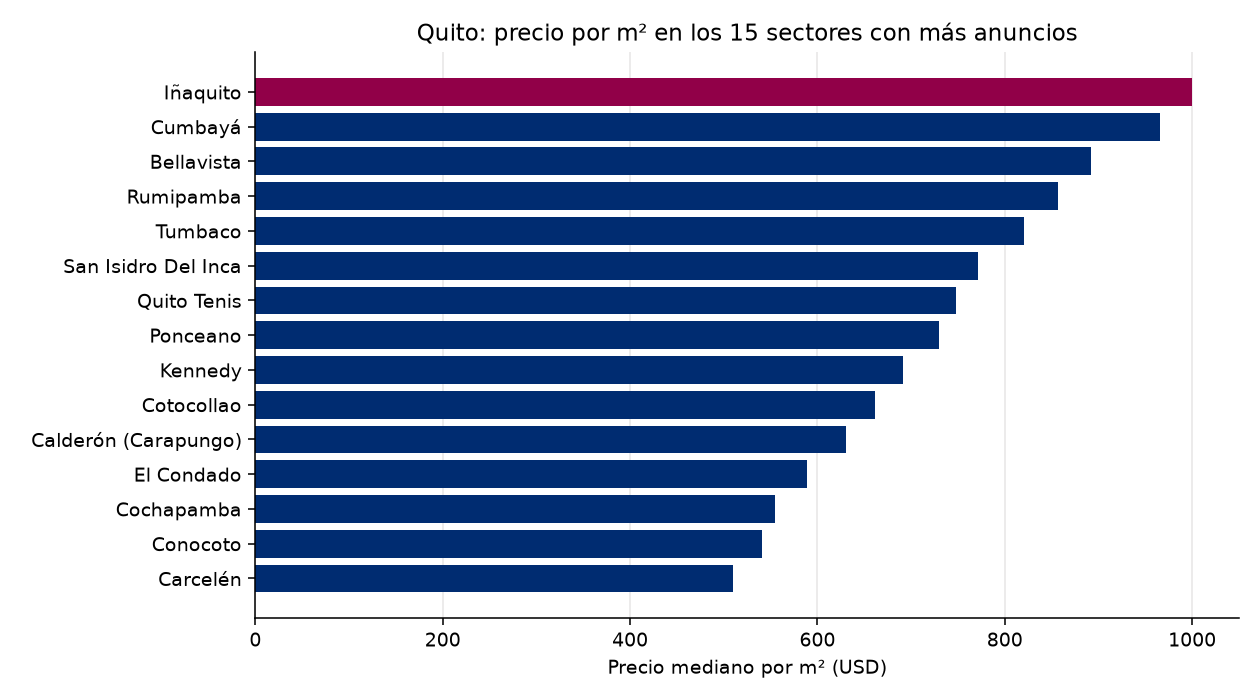
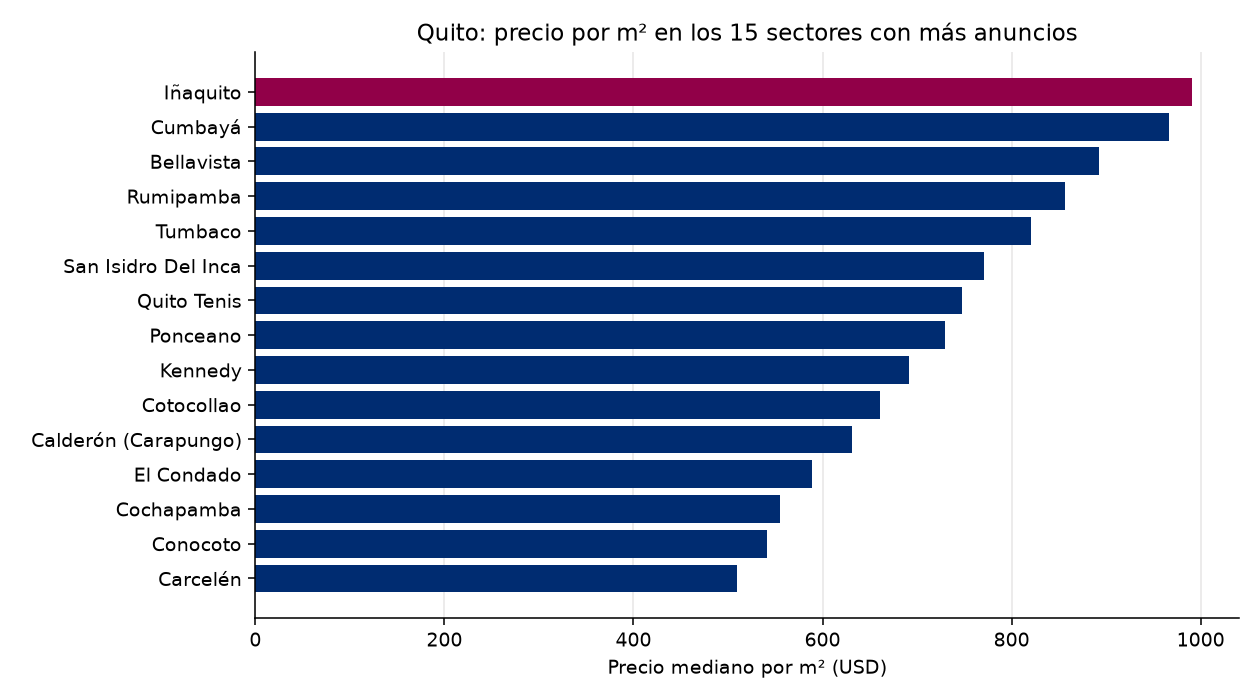
Corrida 3 del 2026-11-12 (success)

diff --git a/reports/reporte_2026-11-12.md b/reports/reporte_2026-11-12.md
@@ -2,21 +2,21 @@
 Reporte del 2026-11-12
 
 ## Lo más importante
-- Anuncios analizados: **1065**
+- Anuncios analizados: **1063**
 - Precio mediano por m²: **USD 643** (primera corrida: aún no hay con qué comparar)
 - Sin alerta. (umbral: 5.0 %)
 
 
 ## Calidad de los datos
-- Anuncios recibidos: 2345; quedaron 1065 tras la limpieza.
-- Descartados por no es venta: 399
-- Descartados por no es vivienda: 691
-- Descartados por no esta activo: 115
+- Anuncios recibidos: 2348; quedaron 1063 tras la limpieza.
+- Descartados por no es venta: 401
+- Descartados por no es vivienda: 692
+- Descartados por no esta activo: 116
 - Descartados por sin precio: 2
 - Descartados por area imposible: 8
 - Descartados por duplicado con otro id: 7
 - Descartados por precio m2 imposible: 2
-- Descartados por precio m2 extremo: 56
+- Descartados por precio m2 extremo: 57
 - Precios corregidos por punto de miles: 3
 
 ## Por sector (los 20 con más anuncios)
@@ -25,7 +25,7 @@ Reporte del 2026-11-12
 | Conocoto | 52 | 541 | 105,000 |
 | Calderón (Carapungo) | 37 | 631 | 74,924 |
 | Tumbaco | 34 | 821 | 183,250 |
-| Iñaquito | 33 | 1,000 | 140,000 |
+| Iñaquito | 32 | 991 | 140,000 |
 | Quito Tenis | 30 | 748 | 204,250 |
 | Rumipamba | 27 | 857 | 135,000 |
 | Bellavista | 26 | 892 | 250,000 |

diff --git a/reports/ultimo.md b/reports/ultimo.md
@@ -2,21 +2,21 @@
 Reporte del 2026-11-12
 
 ## Lo más importante
-- Anuncios analizados: **1065**
+- Anuncios analizados: **1063**
 - Precio mediano por m²: **USD 643** (primera corrida: aún no hay con qué comparar)
 - Sin alerta. (umbral: 5.0 %)
 
 
 ## Calidad de los datos
-- Anuncios recibidos: 2345; quedaron 1065 tras la limpieza.
-- Descartados por no es venta: 399
-- Descartados por no es vivienda: 691
-- Descartados por no esta activo: 115
+- Anuncios recibidos: 2348; quedaron 1063 tras la limpieza.
+- Descartados por no es venta: 401
+- Descartados por no es vivienda: 692
+- Descartados por no esta activo: 116
 - Descartados por sin precio: 2
 - Descartados por area imposible: 8
 - Descartados por duplicado con otro id: 7
 - Descartados por precio m2 imposible: 2
-- Descartados por precio m2 extremo: 56
+- Descartados por precio m2 extremo: 57
 - Precios corregidos por punto de miles: 3
 
 ## Por sector (los 20 con más anuncios)
@@ -25,7 +25,7 @@ Reporte del 2026-11-12
 | Conocoto | 52 | 541 | 105,000 |
 | Calderón (Carapungo) | 37 | 631 | 74,924 |
 | Tumbaco | 34 | 821 | 183,250 |
-| Iñaquito | 33 | 1,000 | 140,000 |
+| Iñaquito | 32 | 991 | 140,000 |
 | Quito Tenis | 30 | 748 | 204,250 |
 | Rumipamba | 27 | 857 | 135,000 |
 | Bellavista | 26 | 892 | 250,000 |

diff --git a/logs/estado.md b/logs/estado.md
@@ -1,14 +1,15 @@
 ## Salud del Observatorio
 
-**Hoy:** 🔴 **ROJO** · falló: remax; omitidas: limpiar, control_calidad, analizar, reportar
+**Hoy:** 🟢 **VERDE** · todo bien con datos reales
 
 | Indicador | Valor |
 |---|---|
-| Corridas sin rojo (últimas 1) | 0 % |
-| Duración media | 10 s |
+| Corridas sin rojo (últimas 2) | 50 % |
+| Duración media | 49 s |
 | Días sin dato real | 0 |
 
 ### Últimas corridas
 | Fecha (UTC) | Estado | Segundos | Motivo |
 |---|---|---|---|
+| 2026-11-12 17:22 | 🟢 verde | 87.8 | todo bien con datos reales |
 | 2026-11-12 17:13 | 🔴 rojo | 10.0 | falló: remax; omitidas: limpiar, control_calidad, analizar, reportar |
